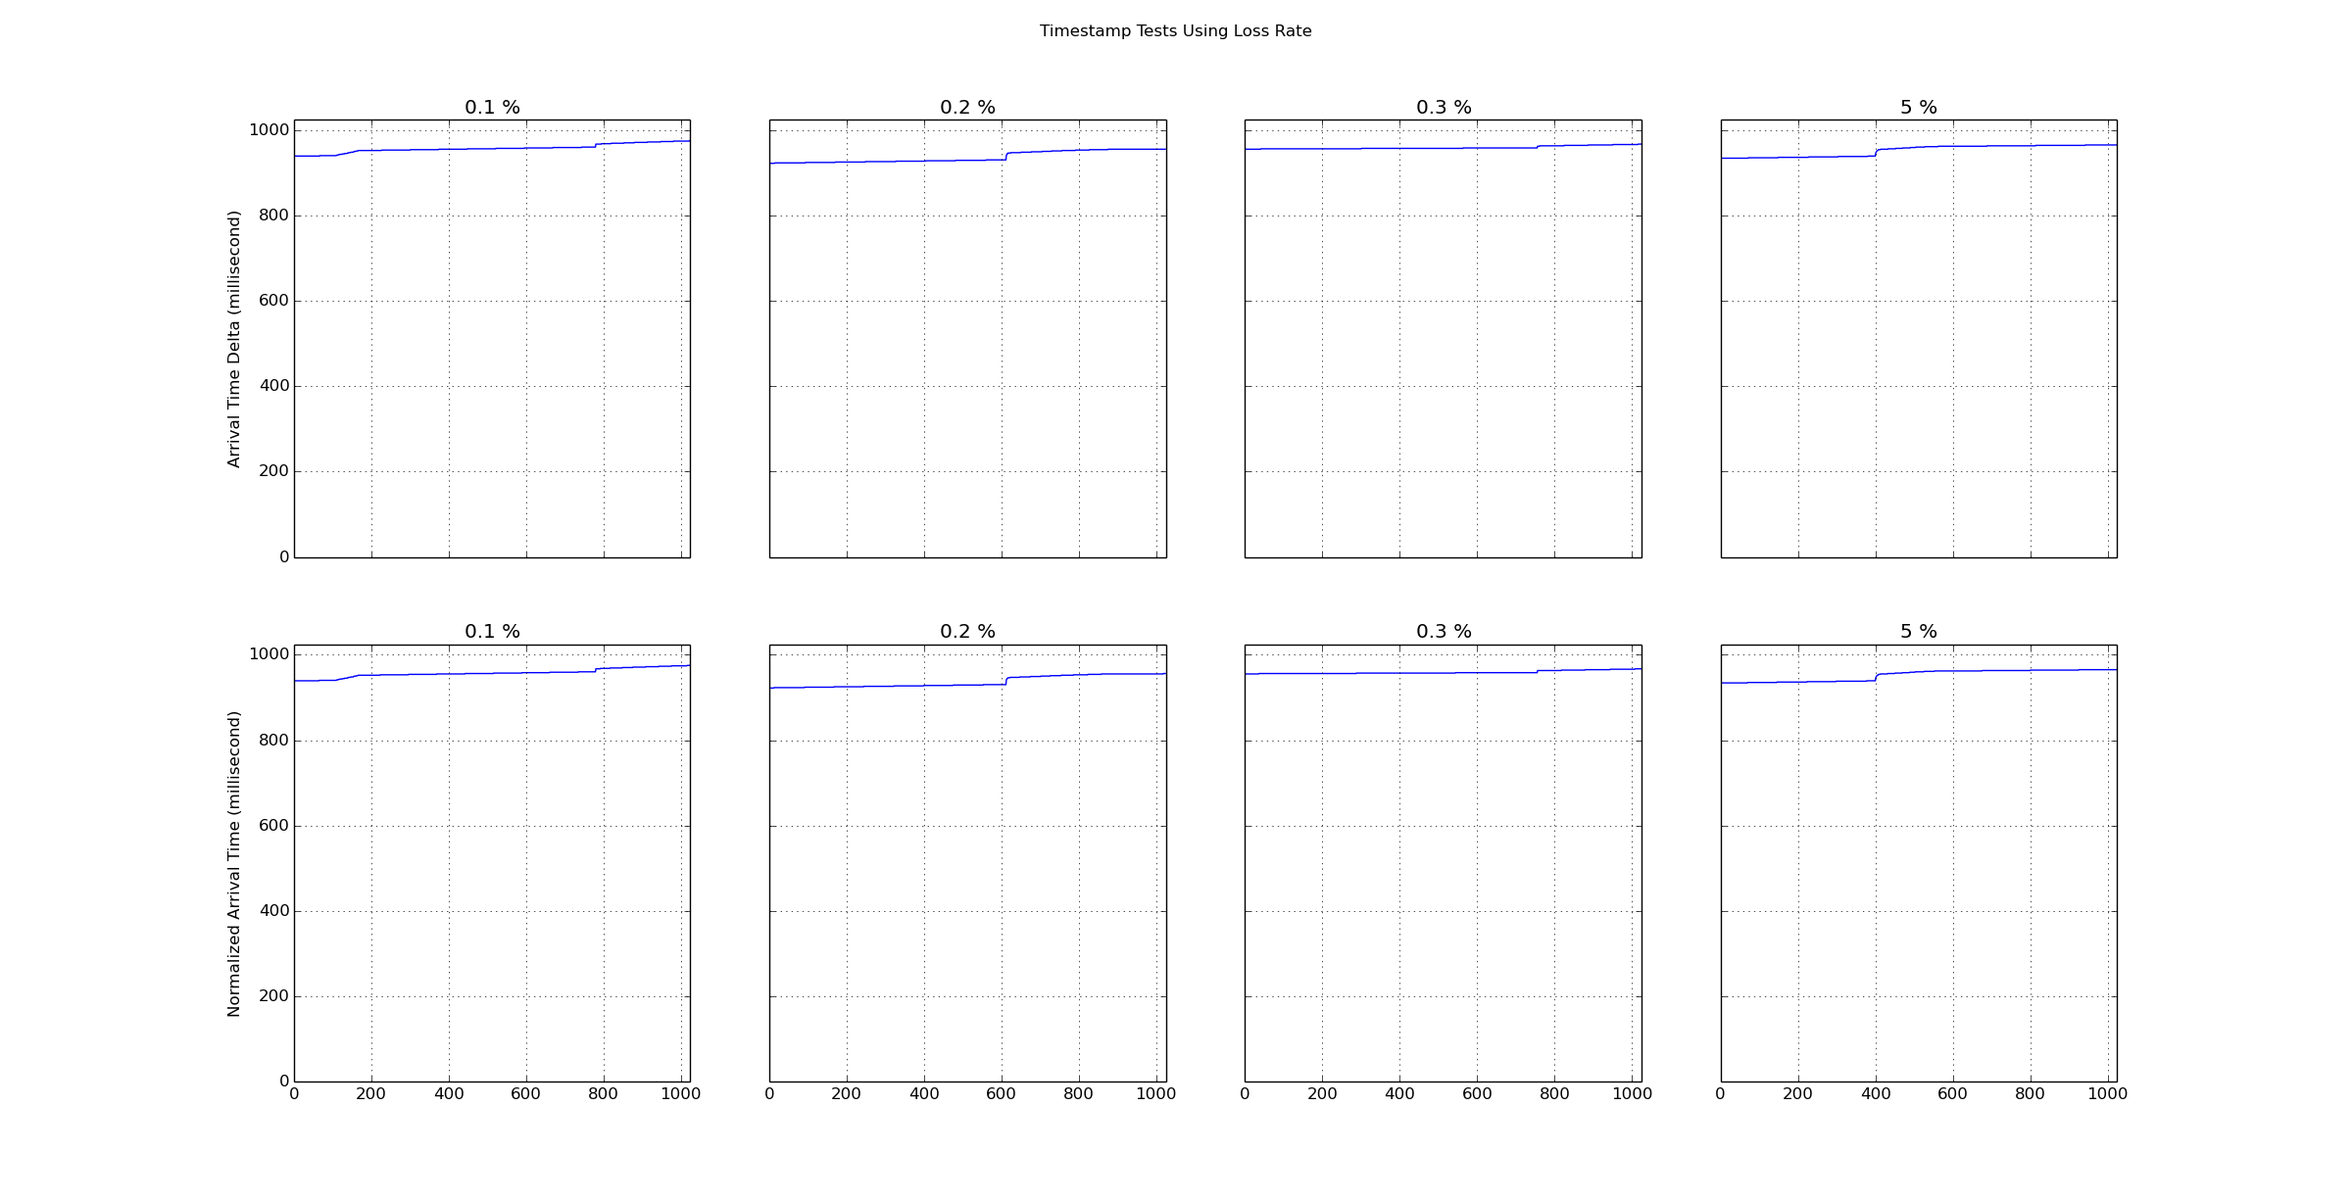
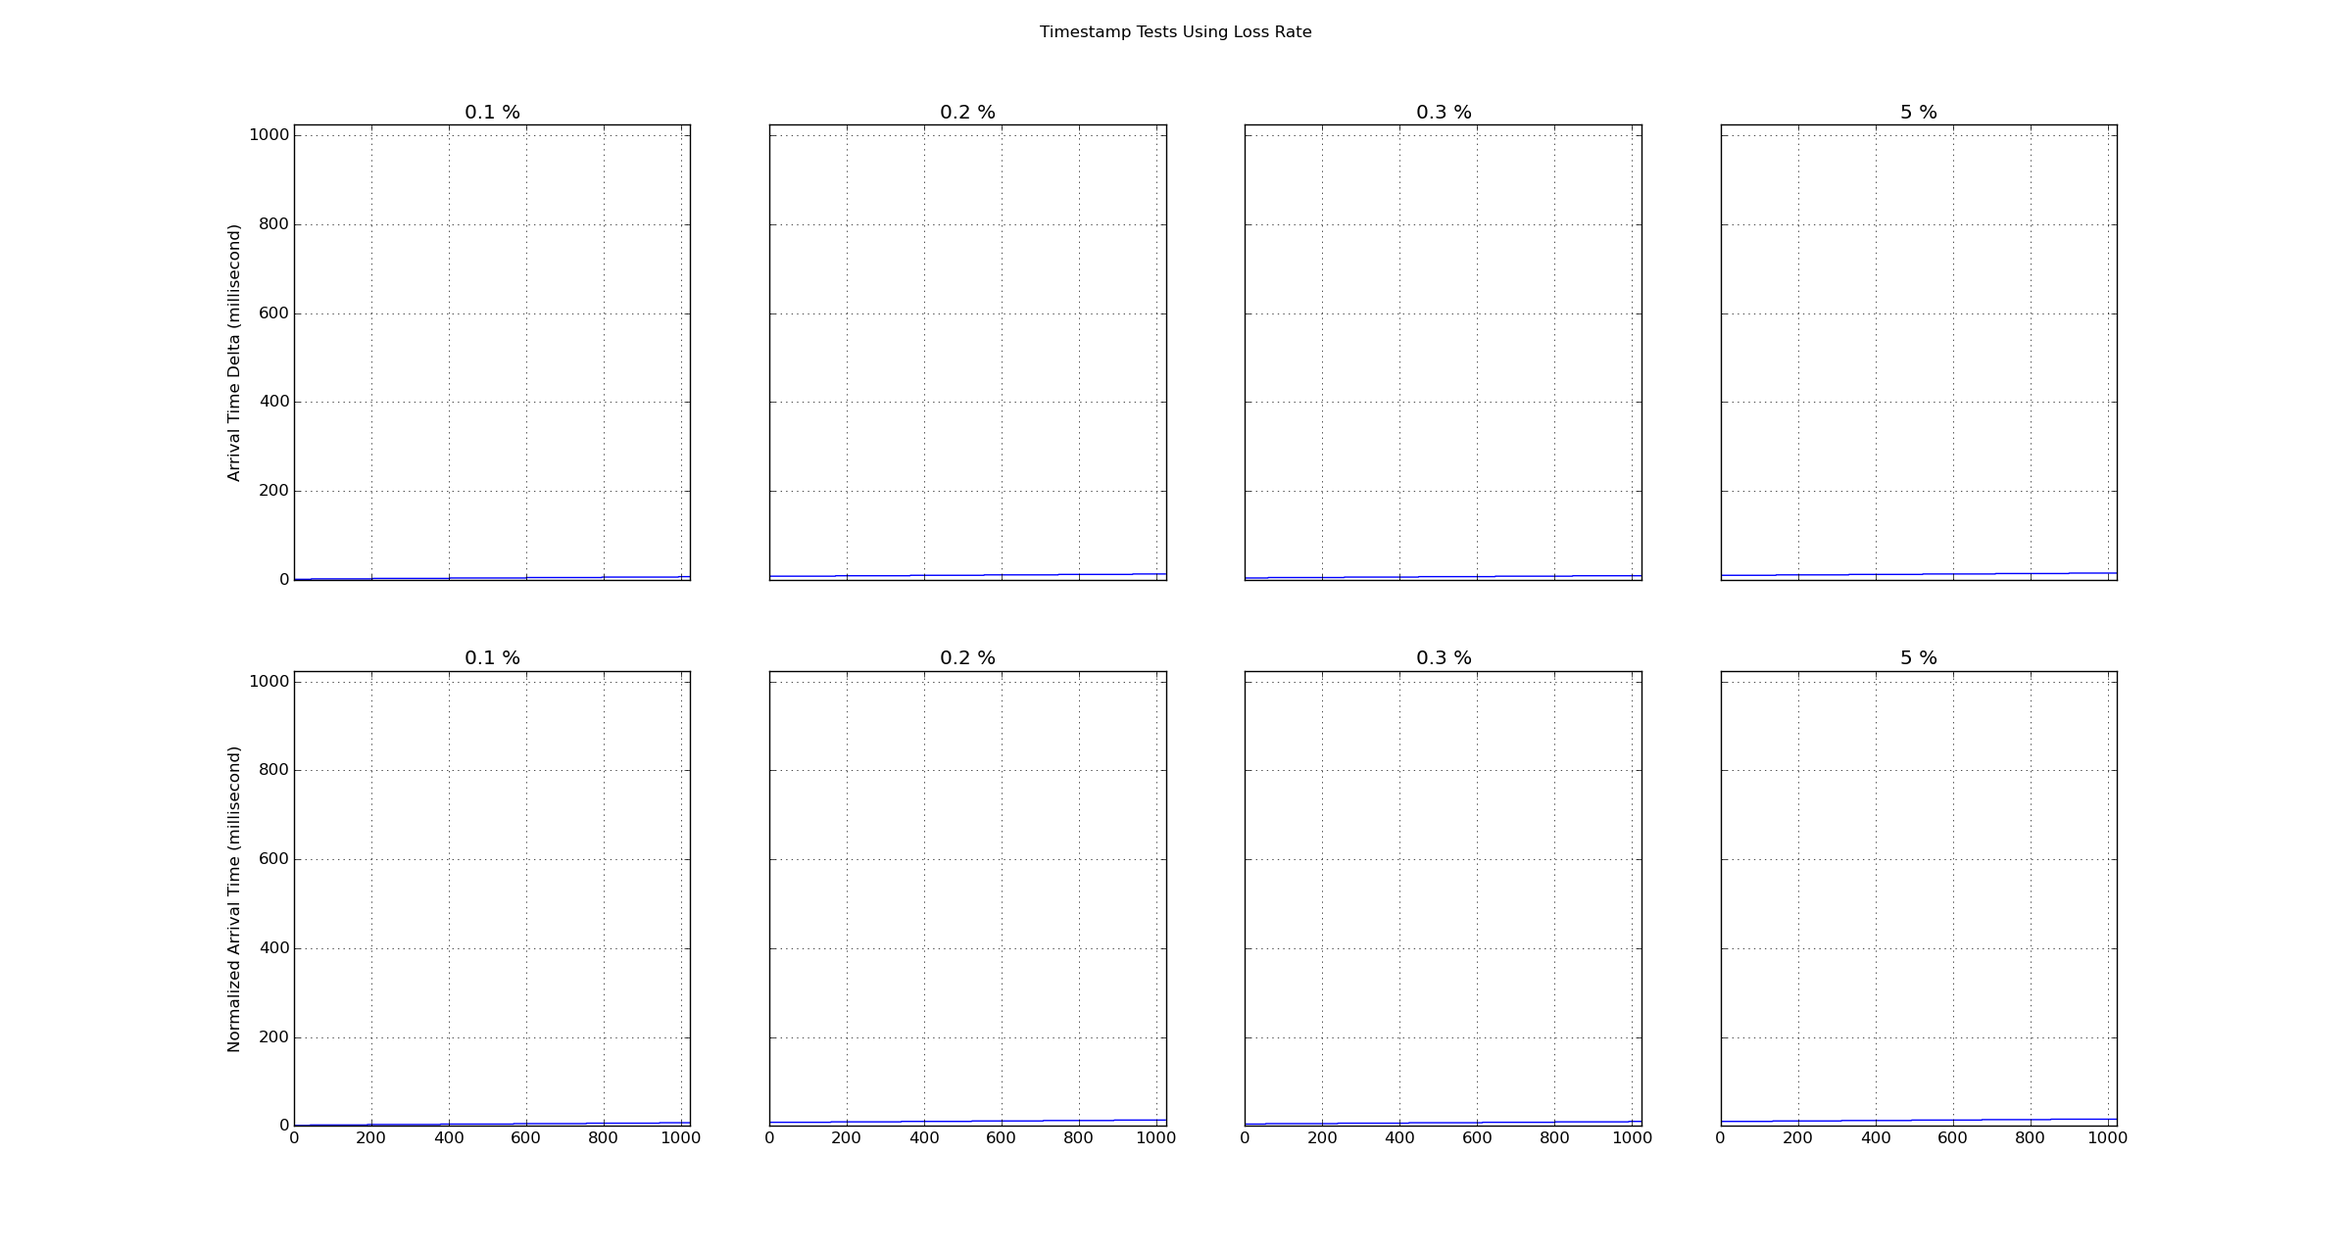
Finished tentative coldlake port of tsTest.py test driver script

diff --git a/Timestamp/tsTest.py b/Timestamp/tsTest.py
@@ -12,17 +12,21 @@ To avoid potential incompatibility with different shells (bash ksh tcsh, etc),
 python is used rather than usual shell scripts.
 """
 
+# --------------------------------- MODULES -----------------------------------
 from __future__ import print_function
 from distutils import spawn
 from util import autoGen
 
 import argparse
 import getpass
+import itertools
 import matplotlib.pyplot as plt
 import os
 import paramiko
-import re
+import random
 import sys
+# --------------------------------- MODULES -----------------------------------
+
 
 # ---------------------------- GLOBAL CONSTANTS -------------------------------
 ENVNAME = 0
@@ -92,10 +96,10 @@ def main():
     if (not os.path.exists(tsBinPath)) or (os.path.isdir(tsBinPath)):
         sys.exit("'ts' program cannot be located in its build directory.")
 
-    # SSH_ATTRS[SSH_USER] =
-    SSH_ATTRS[SSH_PASSWD] = getpass.getpass(passPrompt)
-    # print(not SSH_ATTRS[SSH_PASSWD])
+    loginValidate()
+    # SSH_ATTRS[SSH_USER] = ""
     # SSH_ATTRS[SSH_PASSWD] = ""
+    # SSH_ATTRS[SSH_HNAME] = ""
 
     # The SSHClient class has both __enter__ and __exit__ member functions
     # defined, so context manager syntax is used here to ensure the requested
@@ -105,11 +109,13 @@ def main():
         SSH_ATTRS[SSH_CLIENT].load_system_host_keys()
         SSH_ATTRS[SSH_CLIENT].set_missing_host_key_policy(
             paramiko.AutoAddPolicy())
-        SSH_ATTRS[SSH_CLIENT].connect("coldlake.cs.ualberta.ca",
-                                      username="jxie2",
+        SSH_ATTRS[SSH_CLIENT].connect(SSH_ATTRS[SSH_HNAME],
+                                      username=SSH_ATTRS[SSH_USER],
                                       look_for_keys=False,
                                       password=SSH_ATTRS[SSH_PASSWD])
         with SSH_ATTRS[SSH_CLIENT].open_sftp() as sftpClient:
+            # Assume the current machine executing this script has the same
+            # ABI as all the cluster machines.
             # sftpClient.put("tsTestServer.py", "tsTestServer.py")
             sftpClient.put(tsBinPath, os.path.basename(tsBinPath))
             sftpClient.put(sshPassBinPath, os.path.basename(sshPassBinPath))
@@ -117,16 +123,10 @@ def main():
         for binTarget in map(os.path.basename, (tsBinPath, sshPassBinPath)):
             SSH_ATTRS[SSH_CLIENT].exec_command("chmod u+x " + binTarget)
 
-        stdin, stdout, stderr = SSH_ATTRS[SSH_CLIENT].exec_command("./ts")
-        print(stdout.read())
-        print(stderr.read())
-        stdin, stdout, stderr = SSH_ATTRS[SSH_CLIENT].exec_command("./sshpass")
-        print(stdout.read())
-        print(stderr.read())
-        # for testType in ("padMsgSize", "RTT", "loss"):
-        #     testResult = tsGenResult(testType)
-        #     tsPrintResult(testType, testResult)
-        #     tsPlotResult(testType, testResult)
+        for testType in ("padMsgSize", "RTT", "loss"):
+            testResult = tsGenResult(testType)
+            tsPrintResult(testType, testResult)
+            tsPlotResult(testType, testResult)
 
     # SSH_ATTRS[SSH_CLIENT] is out of scope here and should not be used
     # later on.
@@ -183,13 +183,24 @@ def loginValidate():
 def hostConnectionCheck():
     """
     Check connections among the remote cluster by invoking 'ruptime' and 'ping'
-    programs.
+    programs, respectively.
     """
     pingCommand = "{0} '{1}' {2} {3}@{4} ping -c 3 {5}"
+    hosts = ("cold11", "cold12")
+
     print("!! Dumping host connections !!")
     _, stdout, _ = SSH_ATTRS[SSH_CLIENT].exec_command("ruptime")
     print(stdout.read())
     print("!! Testing network connectivity !!")
+    # Note the hosts tested here are hard coded and only cold11 and cold12
+    # are checked.
+    # Reference
+    # https://docs.python.org/2/library/itertools.html
+    for hostPair in itertools.permutations(hosts):
+        print(hostPair[0] + " -> " + hostPair[1])
+        _, stdout, _ = SSH_ATTRS[SSH_CLIENT].exec_command(pingCommand.format(
+            SSH_ATTRS[SSHPASS_CMD], SSH_ATTRS[SSH_PASSWD], SSH_ATTRS[SSH_CMD],
+            SSH_ATTRS[SSH_USER], hostPair[0], hostPair[1]))
 
 
 def tsTestPadMsgSize(padMsgSize, numOfRuns, msgSent):
@@ -204,38 +215,29 @@ def tsTestPadMsgSize(padMsgSize, numOfRuns, msgSent):
     delta = list()
     normalized = list()
     padMsgSizeResult = list()
-    tsOutput = str()
+    tsOutput = None
     tsCommand = "{0} '{1}' {2} {3}@{4} ./ts -s -b {6} -c {7} | " +\
                 "{0} '{1}' {2} {3}@{5} ./ts -r -b {6} -c {7} "
 
     print("!! Performing TimeStamp Test Using Padding Message Size !!")
-    print("!! Dumping host connections !!")
-    _, stdout, _ = SSH_ATTRS[SSH_CLIENT].exec_command("ruptime")
-    print(stdout.read())
-    print("!! Testing network connectivity !!")
-    # net.pingAll()
-
-    h1, h2 = net.getNodeByName("h1", "h2")
-    h1.cmd(SSH_ATTRS[SSHD_PATH])
-    h2.cmd(SSH_ATTRS[SSHD_PATH])
+    hostConnectionCheck()
     print("!! Testing Time Delta/Normalized Arrival Time" +
-          "Between h1 ({0}) and h2 ({1}) !!"
-          .format(h1.IP(), h2.IP()))
+          "Between cold11 and cold12 !!")
 
     # From section 7.1.3 'Format String Syntax' of the official python doc:
     # https://docs.python.org/2/library/string.html
     print("Padding Message Size -------- [{0} byte]".format(str(padMsgSize)))
-    tsOutput = h1.cmd(tsCommand
-                      .format(padMsgSize, msgSent,
-                              SSH_ATTRS[SSHPASS_CMD], SSH_ATTRS[SSH_PASSWD],
-                              SSH_ATTRS[SSH_CMD], h2.IP()))
+    _, tsOutput, _ = SSH_ATTRS[SSH_CLIENT].exec_command(tsCommand.format(
+        SSH_ATTRS[SSHPASS_CMD], SSH_ATTRS[SSH_PASSWD], SSH_ATTRS[SSH_CMD],
+        SSH_ATTRS[SSH_USER],    "cold11",              "cold12",
+        str(padMsgSize),        str(msgSent)))
     # The extra splicing is used to remove the first line: which is
     # 'DELTA,NORMALIZED'.
+    tsOutput = tsOutput.read()
     for pair in tsOutput.split()[1:]:
         delta.append(int(pair.split(",")[0]))
         normalized.append(int(pair.split(",")[1]))
 
-    net.stop()
     padMsgSizeResult.append(delta)
     padMsgSizeResult.append(normalized)
     return padMsgSizeResult
@@ -243,8 +245,8 @@ def tsTestPadMsgSize(padMsgSize, numOfRuns, msgSent):
 
 def tsTestLoss(lossRate, numOfRuns, msgSent):
     """
-    Send 'msgSent' number of messages with 'lossRate' between the two virtual
-    hosts.
+    Send 'msgSent' number of messages with 'lossRate' between cold11 and cold12
+    in the coldlake cluster.
     For now 'numOfRuns' parameter is IGNORED.
     """
     for argument in (numOfRuns, msgSent):
@@ -257,46 +259,48 @@ def tsTestLoss(lossRate, numOfRuns, msgSent):
     delta = list()
     normalized = list()
     lossResult = list()
+    cold11Prefix = "{0} '{1}' {2} {3}@{4} ".format(SSH_ATTRS[SSHPASS_CMD],
+                                                   SSH_ATTRS[SSH_PASSWD],
+                                                   SSH_ATTRS[SSH_CMD],
+                                                   SSH_ATTRS[SSH_USER],
+                                                   "cold11")
+    cold12Prefix = "{0} '{1}' {2} {3}@{4} ".format(SSH_ATTRS[SSHPASS_CMD],
+                                                   SSH_ATTRS[SSH_PASSWD],
+                                                   SSH_ATTRS[SSH_CMD],
+                                                   SSH_ATTRS[SSH_USER],
+                                                   "cold12")
     # Thanks Nooshin for giving proper instructions to properly use 'tc' and
     # avoid a potential pitfall!
-    tcCommand = "tc qdisc add dev {0} root netem limit 10000000000 loss {1}%"
-    tsCommand = "ts -s -c {0} | {1} '{2}' {3}{4} ts -r -c {0}"
-    tsOutput = str()
-    interfaceName = str()
+    # ifconfigCommand = "{0} '{1}' {2} {3}@{4} ifconfig"
+    tcCommand = "{0} tc qdisc add dev {1} root " +\
+        "netem limit 10000000000 loss {2}%"
+    tsCommand = "{0} ./ts -s -c {2} | {1} ./ts -r -c {2} "
+    tsOutput = None
+    # interfaceName = None
 
     print("!! Performing TimeStamp Test Using Loss Rate !!")
-    topo = SingleSwitchTopo(n=2)
-    net = Mininet(topo, link=TCLink)
-    net.start()
-    print("!! Dumping host connections !!")
-    _, stdout, _ = SSH_ATTRS[SSH_CLIENT].exec_command("ruptime")
-    print(stdout.read())
-    print("!! Testing network connectivity !!")
-    net.pingAll()
+    hostConnectionCheck()
 
-    h1, h2 = net.getNodeByName("h1", "h2")
-    h1.cmd(SSH_ATTRS[SSHD_PATH])
-    h2.cmd(SSH_ATTRS[SSHD_PATH])
-    interfaceName = h1.cmd("ifconfig")
-    # The interface name contains character '-', so adjustment is made to
-    # account for that other than the word character class itself.
-    interfaceName = re.findall(r"[\w'-]+", interfaceName)[0]
+    # The network interface name is hard-coded for now.
+    # _, interfaceName, _ = SSH_ATTRS[SSH_CLIENT].exec_command(
+    #     ifconfigCommand.format(SSH_ATTRS[SSHPASS_CMD], SSH_ATTRS[SSH_PASSWD],
+    #                            SSH_ATTRS[SSH_CMD],     SSH_ATTRS[SSH_USER],
+    #                            "cold11"))
+    # interfaceName = interfaceName.read()
     print("!! Testing Time Delta/Normalized Arrival Time" +
-          "Between h1 ({0}) and h2 ({1}) !!"
-          .format(h1.IP(), h2.IP()))
+          "Between cold11 and cold12 !!")
 
     print("Loss Rate -------- [{0} %]".format(lossRate))
-    h1.cmd(tcCommand.format(interfaceName, lossRate))
-    tsOutput = h1.cmd(tsCommand.format(msgSent,
-                                       SSH_ATTRS[SSHPASS_CMD],
-                                       SSH_ATTRS[SSH_PASSWD],
-                                       SSH_ATTRS[SSH_CMD],
-                                       h2.IP()))
+    SSH_ATTRS[SSH_CLIENT].exec_command(tcCommand.format(cold11Prefix,
+                                                        "eth0",
+                                                        lossRate))
+    _, tsOutput, _ = SSH_ATTRS[SSH_CLIENT].exec_command(
+        tsCommand.format(cold11Prefix, cold12Prefix, msgSent))
+    tsOutput = tsOutput.read()
     for pair in tsOutput.split()[1:]:
         delta.append(int(pair.split(",")[0]))
         normalized.append(int(pair.split(",")[1]))
 
-    net.stop()
     lossResult.append(delta)
     lossResult.append(normalized)
     return lossResult
@@ -304,7 +308,8 @@ def tsTestLoss(lossRate, numOfRuns, msgSent):
 
 def tsTestRTT(RTT, numOfRuns, msgSent):
     """
-    Send 'msgSent' number of messages with 'RTT' set by mininet.
+    Send 'msgSent' number of messages with 'RTT' indirectly set by the 'tc'
+    program.
     For now 'numOfRuns' parameter is IGNORED.
     """
     for argument in (RTT, numOfRuns, msgSent):
@@ -314,38 +319,38 @@ def tsTestRTT(RTT, numOfRuns, msgSent):
     delta = list()
     normalized = list()
     RTTResult = list()
-    tsCommand = "ts -s -c {0} | {1} '{2}' {3}{4} ts -r -c {0}"
+    cold11Prefix = "{0} '{1}' {2} {3}@{4} ".format(SSH_ATTRS[SSHPASS_CMD],
+                                                   SSH_ATTRS[SSH_PASSWD],
+                                                   SSH_ATTRS[SSH_CMD],
+                                                   SSH_ATTRS[SSH_USER],
+                                                   "cold11")
+    cold12Prefix = "{0} '{1}' {2} {3}@{4} ".format(SSH_ATTRS[SSHPASS_CMD],
+                                                   SSH_ATTRS[SSH_PASSWD],
+                                                   SSH_ATTRS[SSH_CMD],
+                                                   SSH_ATTRS[SSH_USER],
+                                                   "cold12")
+    tcCommand = "{0} tc qdisc add dev {1} root " +\
+        "netem limit 10000000000 delay {2}ms"
+    tsCommand = "{0} ./ts -s -c {2} | {1} ./ts -r -c {2} "
+    tsOutput = None
 
     print("!! Performing TimeStamp Test Using RTT !!")
-    # Note the RTT is indirectly set by the 'delay' option
-    SingleSwitchTopo.setBuildOption("delay", RTT // 2)
-    topo = SingleSwitchTopo(n=2)
-    net = Mininet(topo, link=TCLink)
-    net.start()
-    print("!! Dumping host connections !!")
-    _, stdout, _ = SSH_ATTRS[SSH_CLIENT].exec_command("ruptime")
-    print(stdout.read())
-    print("!! Testing network connectivity !!")
-    net.pingAll()
+    hostConnectionCheck()
 
-    h1, h2 = net.getNodeByName("h1", "h2")
-    h1.cmd(SSH_ATTRS[SSHD_PATH])
-    h2.cmd(SSH_ATTRS[SSHD_PATH])
     print("!! Testing Time Delta/Normalized Arrival Time" +
-          "Between h1 ({0}) and h2 ({1}) !!"
-          .format(h1.IP(), h2.IP()))
+          "Between cold11 and cold12 !!")
 
     print("RTT -------- [{0} ms]".format(str(RTT)))
-    tsOutput = h1.cmd(tsCommand.format(msgSent,
-                                       SSH_ATTRS[SSHPASS_CMD],
-                                       SSH_ATTRS[SSH_PASSWD],
-                                       SSH_ATTRS[SSH_CMD],
-                                       h2.IP()))
+    SSH_ATTRS[SSH_CLIENT].exec_command(tcCommand.format(cold11Prefix,
+                                                        "eth0",
+                                                        RTT / 2))
+    _, tsOutput, _ = SSH_ATTRS[SSH_CLIENT].exec_command(
+        tsCommand.format(cold11Prefix, cold12Prefix, msgSent))
+    tsOutput = tsOutput.read()
     for pair in tsOutput.split()[1:]:
         delta.append(int(pair.split(",")[0]))
         normalized.append(int(pair.split(",")[1]))
 
-    net.stop()
     RTTResult.append(delta)
     RTTResult.append(normalized)
     return RTTResult
@@ -368,13 +373,18 @@ def tsGenResult(test):
     if not isinstance(test, str) or test not in ("padMsgSize", "loss", "RTT"):
         raise ValueError("argument must be string," +
                          "and one of padMsgSize, loss, RTT")
-    os.system("cd /tmp/ && rm -f " + TIMESTAMP_ATTRS[REPORTNAME])
-    # Environment variables set in the host will not be seen in the virtual
-    # hosts set up by mininet, left as it is just in case
-    os.system("export " + TIMESTAMP_ATTRS[ENVNAME] + "=" +
-              TIMESTAMP_ATTRS[REPORTNAME])
+    unsetCommand = "{0} '{1}' {2} {3}@{4} unset {5}"
+    hosts = ("cold11", "cold12")
+    os.system("unset " + TIMESTAMP_ATTRS[ENVNAME])
     testResults = list()
 
+    for host in hosts:
+        print("!! Unsetting Environment Variable {0} on Host {1} !!".format(
+            TIMESTAMP_ATTRS[ENVNAME], host))
+        SSH_ATTRS[SSH_CLIENT].exec_command(unsetCommand.format(
+            SSH_ATTRS[SSHPASS_CMD], SSH_ATTRS[SSH_PASSWD],
+            SSH_ATTRS[SSH_CMD],     SSH_ATTRS[SSH_USER],
+            host,                   TIMESTAMP_ATTRS[ENVNAME]))
     if "padMsgSize" == test:
         for padMsgSize in (2, 32, 512, 8192):
             testResults.append(tsTestPadMsgSize(padMsgSize, 1, 1024))

diff --git a/Timestamp/tsMiniNetTest.py b/Timestamp/tsMiniNetTest.py
@@ -268,7 +268,7 @@ def tsPlotResult(test, tsGenResultList):
         raise ValueError("tsGenResultList must be of list type " +
                          "and cannot be empty")
 
-    outputPlotName = "tsTest" + test[0].upper() + test[1:] + ".png"
+    outputPlotName = "tsMiniNetTest" + test[0].upper() + test[1:] + ".png"
     plotDirectory = "./report/plot"
     # Based on an example from
     # http://matplotlib.org/examples/pylab_examples/subplots_demo.html
@@ -354,7 +354,8 @@ def tsPrintResult(test, resultList):
     if not resultList or not isinstance(resultList, list):
         raise ValueError("resultList must be of list type and cannot be empty")
 
-    resultFileName = "ts" + test[0].upper() + test[1:] + "TestResult.txt"
+    resultFileName = "tsMiniNet" + test[0].upper() +\
+        test[1:] + "TestResult.txt"
     resultFileDirectory = "report/"
     # Since the 2 sublists within each record are of same length
     # (1024 for now), it is safe to choose either

diff --git a/Timestamp/report/README.md b/Timestamp/report/README.md
@@ -47,7 +47,8 @@ instead.
 is impractical to list all of the results here.
 
 ## Padding Message Size
-Refer to the plot [tsTestPadMsgSize.png](plot/tsTestPadMsgSize.png).
+Refer to the plot
+[tsMiniNetTestPadMsgSize.png](plot/tsMiniNetTestPadMsgSize.png).
 
 2 Bytes
 
@@ -123,7 +124,7 @@ is set, the normalized arrival time monotonically increases and rises above
 the 1000 miliseconds upper bound in the plot when 800 timestamps are about to
 be sent.
 ## Loss Rate
-Refer to the plot [tsTestLoss.png](plot/tsTestLoss.png).
+Refer to the plot [tsMiniNetTestLoss.png](plot/tsMiniNetTestLoss.png).
 
 0.1 %
 
@@ -191,7 +192,7 @@ listed above) with very litte fluctuations and does not seem to change relative
 to number of timestamp sent.
 
 ## RTT
-Refer to the plot [tsTestRTT.png](plot/tsTestRTT.png).
+Refer to the plot [tsMiniNetTestRTT.png](plot/tsMiniNetTestRTT.png).
 
 10 Miliseconds
 
